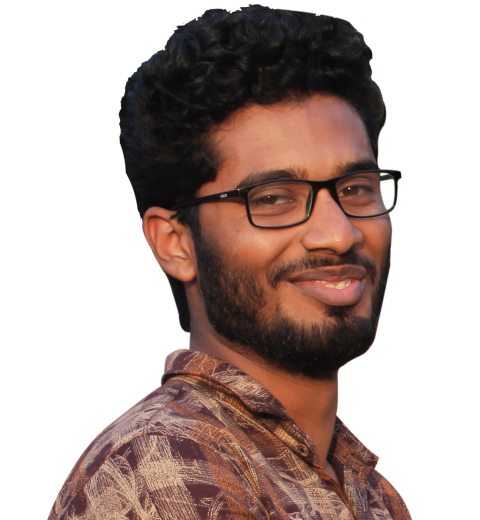
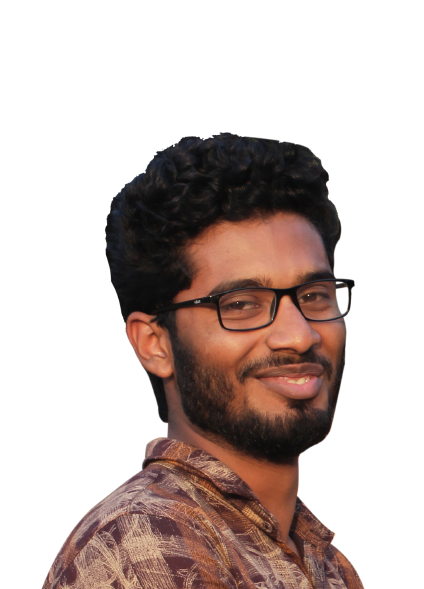
change2

diff --git a/src/Components/Home/NavBar/NavBar.js b/src/Components/Home/NavBar/NavBar.js
@@ -22,9 +22,9 @@ const NavBar = () => {
           </Navbar.Brand>
           <Navbar.Toggle aria-controls="basic-navbar-nav" />
           <Navbar.Collapse id="basic-navbar-nav">
-            <Nav className="ml-auto my-nav">
+            <Nav  className=" my-nav ml-auto">
               <Link
-                className="active me-3"
+                className="active ms-3"
                 to="home"
                 spy={true}
                 smooth={true}
@@ -35,13 +35,14 @@ const NavBar = () => {
                 Home
               </Link>
               <Link
-                className="active me-3"
+                className="active ms-3"
                 to="about"
                 spy={true}
                 smooth={true}
                 offset={-100}
                 duration={500}
                 onClick={closeMenu}
+                
               >
                 About
               </Link>
@@ -79,6 +80,12 @@ const NavBar = () => {
                 Contact
               </Link>
             </Nav>
+            <div className="justify-content-end">
+            
+              <Link href="#login" className="justify-content-end">Log In</Link>
+           
+          </div>
+       
           </Navbar.Collapse>
         </Container>
       </Navbar>

diff --git a/src/Components/Home/Header/Header.js b/src/Components/Home/Header/Header.js
@@ -14,7 +14,7 @@ const Header = () => {
       <div className="container">
         <div className="row py-5">
           <div className="col-md-6">
-            <img className="img-fluid text-center" src={img} alt="" />
+            <img className="img-fluid text-center" src={img} alt="" style={{width:'70%'}}/>
           </div>
           <div className="col-md-6" style={{ margin: "auto" }}>
             <div className="header-text ">

diff --git a/src/Components/Home/Header/Header.css b/src/Components/Home/Header/Header.css
@@ -25,7 +25,7 @@ MuiSvgIcon-root.MuiSvgIcon-fontSizeMedium.css-i4bv87-MuiSvgIcon-root {
     margin-right: 28px !important;
     cursor: pointer;
 }
-svg.MuiSvgIcon-root.MuiSvgIcon-fontSizeMedium.css-i4bv87-MuiSvgIcon-root{
+.icon svg.MuiSvgIcon-root.MuiSvgIcon-fontSizeMedium.css-i4bv87-MuiSvgIcon-root{
     margin-right: 28px !important;
     cursor: pointer;
 }

diff --git a/src/App.css b/src/App.css
@@ -1,9 +1,8 @@
 *{
   margin: 0;
   padding: 0;
-  font-family: -webkit-body;
+  font-family: 'Poppins', sans-serif; 
   font-size: 16px;
-  color: black;
 }
 
 .container{

diff --git a/src/Components/Home/NavBar/NavBar.css b/src/Components/Home/NavBar/NavBar.css
@@ -10,7 +10,7 @@
 
 .my-nav a{
     color:rgb(231, 230, 230);
-    margin-right: 97px;
+    margin-right: 40px;
 }
 
 .my-nav a:hover{
